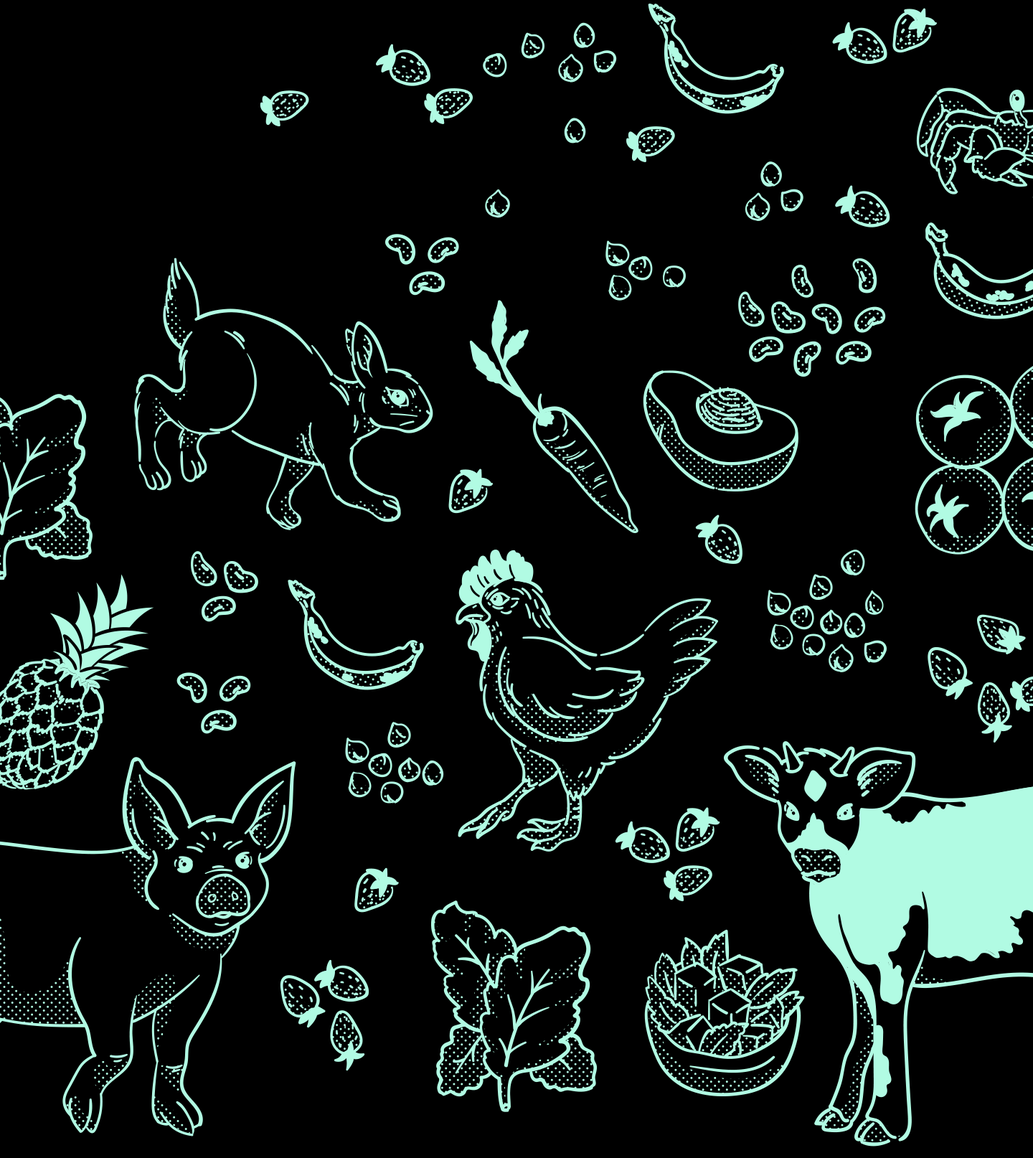
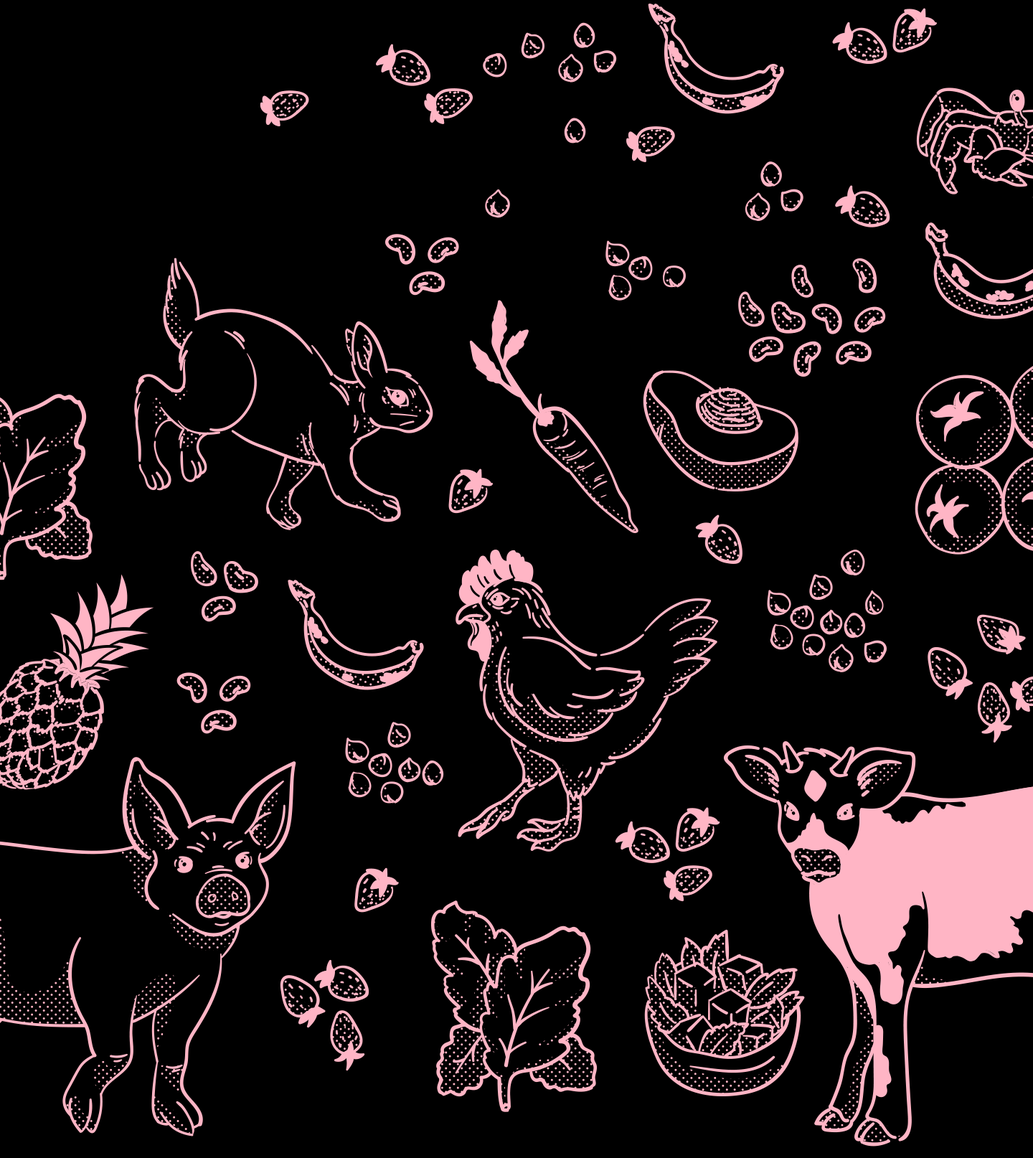
pink insted of purple

diff --git a/assets/css/styles.css b/assets/css/styles.css
@@ -1,1 +1,1 @@
-@font-face{font-family:'League Spartan Variable';src:url("../fonts/league-spartan/LeagueSpartan-VF.woff2") format("woff2-variations");font-weight:200 900}@font-face{font-family:'Fanwood';src:url("../fonts/fanwood_regular_macroman/Fanwood-webfont.eot");src:url("../fonts/fanwood_regular_macroman/Fanwood-webfont.eot?#iefix") format("embedded-opentype"),url("../fonts/fanwood_regular_macroman/Fanwood-webfont.woff") format("woff"),url("../fonts/fanwood_regular_macroman/Fanwood-webfont.ttf") format("truetype"),url("../fonts/fanwood_regular_macroman/Fanwood-webfont.svg#fanwoodregular") format("svg");font-weight:normal;font-style:normal}@font-face{font-family:'fanwooditalic';src:url("../fonts/fanwood_italic_macroman/Fanwood-Italic-webfont.eot");src:url("../fonts/fanwood_italic_macroman/Fanwood-Italic-webfont.eot?#iefix") format("embedded-opentype"),url("../fonts/fanwood_italic_macroman/Fanwood-Italic-webfont.woff") format("woff"),url("../fonts/fanwood_italic_macroman/Fanwood-Italic-webfont.ttf") format("truetype"),url("../fonts/fanwood_italic_macroman/Fanwood-Italic-webfont.svg#fanwooditalic") format("svg");font-weight:normal;font-style:italic}body{font-family:"Fanwood",serif;font-weight:400;color:#000;background-color:#FFFEFA;-webkit-font-smoothing:antialiased;-moz-osx-font-smoothing:grayscale}section{margin:0}a{text-decoration:none;color:#000}a:hover{color:#8441FD;text-decoration:none}.underline{text-decoration:underline}.no-underline{text-decoration:none}.no-underline:hover{text-decoration:none !important}.dark{color:#000}.bright{color:#FFFEFA}.dark-background{background-color:#000}.bright-background{background-color:#FFFEFA}.brand-background{background-color:#8441FD}.gray-1-background{background-color:#f7f7f7}.gray-2-background{background-color:#c6c6c6}.gray-3-background{background-color:#949494}.gray-4-background{background-color:#949494}.gray-5-background{background-color:#313131}figure{margin:0}figure img{width:100%}ul{padding:0;margin:0}ul li{list-style-type:none}.inline{display:inline-block}.inline li{display:inline-block}.break{display:block;content:''}.box-row{display:block;width:100%;height:5.1rem}h1,h2,h3,h4,h5,h6{color:#000;font-family:"League Spartan Variable",sans-serif;font-weight:700}h1,h2,h3,h4,h5,h6{margin:0}h1{font-size:2.488125rem;line-height:2.9375rem}h2{font-size:2.07375rem;line-height:2.4375rem}h3{font-size:1.728125rem;line-height:2.0625rem}h4{font-size:1.44rem;line-height:1.6875rem}h5{font-size:1.2rem;line-height:1.69155rem}p{font-size:1.266rem;line-height:2.0256rem;margin:0;font-weight:400}.p-big{font-size:1.424rem;line-height:2.2784rem;font-weight:400}.p-small{font-size:1.125rem;line-height:1.8rem}.category{text-transform:uppercase;font-size:1rem;letter-spacing:0.2rem}.author-date{font-size:1.125rem;color:#636363}blockquote{font-style:normal !important;color:#000 !important;margin:0}blockquote p{font-size:1.424rem;line-height:2.2784rem;color:#636363}.button{font-family:"League Spartan Variable",sans-serif;color:#FFFEFA;font-weight:700;display:inline-block;padding:.5rem 2.5rem;border-radius:50px;margin:0;text-align:center}.button:hover{background-color:#B2FCE4;color:#000;-webkit-transition:0.7s ease;transition:0.7s ease}.button-wide,.button-wide-xs{display:block}.button-big,.link-big{font-size:1.424rem}.link-big span{font-size:2rem}.link-mid{font-size:1.266rem}.link-mid span{font-size:2rem}.button-small,.link-small{font-size:1.125rem}.button-ghost{border:2px solid #000}.button-ghost-bright{border:2px solid #FFFEFA}.button-box{padding:1rem;margin-bottom:2.4rem}.button-box a:last-child{margin-bottom:0}.button-bright:hover{color:#FFFEFA}.button-dark:hover{color:#000}.link{font-family:"League Spartan Variable",sans-serif;font-weight:700}.link:hover{text-decoration:underline;color:#8441FD;-webkit-transition:0.7s ease;transition:0.7s ease}.link span{vertical-align:middle;margin-left:.5rem}.link-heading:hover{color:#8441FD;transition:0.7s ease;-webkit-transition:0.7s ease}.underline-links li a:after{content:"";display:block;background-color:rgba(0,0,0,0);width:33%;height:.2rem;position:relative;top:.65rem;margin:0 auto}.underline-links li a:hover{color:#000}.underline-links li a:hover:after{background-color:#B2FCE4}.underline-links .active:after{background-color:#000}.underline-links .social a:hover:after{background-color:rgba(0,0,0,0)}.underline-links .social a:after{top:.45rem}.icon-gallery .row{margin:0 0 2.4rem 0}.icon-box{margin:0 0 2.4rem 0}.icon-box img{width:inherit;vertical-align:middle}.video-wrapper{position:relative;padding-bottom:56.25%;padding-top:0;height:0;margin:3rem 0 0 0}.video-wrapper iframe,.video-wrapper .video{position:absolute;top:0;left:0;width:100%;height:100%}.caption{display:block;margin:.75rem 0 2rem 0;color:#000;font-size:1rem;line-height:1.6rem}.caption:hover{text-decoration:underline;color:#000}.main-nav{background-color:#B2FCE4;padding:.5rem 0 .25rem 0}.main-nav a:hover{color:#000}.main-nav li{margin-right:1rem;font-size:1.5rem}.main-nav li:last-child{margin-right:0}.uk-alert{color:inherit;padding:2.4rem 1.4rem;margin:0 0 1.4rem 0;background-color:#f7f7f7}.uk-alert-close{top:1.4rem;right:1.4rem;opacity:1}.uk-alert-close:hover{opacity:1}.alert-content{margin:0 0 .5rem 0}.alert-content p:last-child{margin-bottom:0}.alert-content-no-heading{margin:1.4rem 0 .5rem 0}.uk-modal-full{z-index:9999999999}.uk-modal-full .uk-modal-dialog{height:100%;color:#FFFEFA;background-color:#000}.uk-modal-full .uk-modal-body{padding:.75rem 0 2.4rem 0}.uk-modal-full .wrapper{height:100%}.uk-modal-full .modal-nav-row{height:100%}.uk-modal-full ul{padding-left:0}.uk-modal-full .social{margin-top:1rem;font-size:1.5rem}.uk-modal-full .social li{margin-right:1rem}.uk-modal-full .social li:last-child{margin-right:0}.uk-modal-full li{font-family:"League Spartan Variable",sans-serif;font-weight:700;font-size:1.44rem;margin-bottom:1rem}.uk-modal-full .logo{font-size:8rem;margin-bottom:-1rem}.uk-modal-full a{color:#FFFEFA}.uk-modal-full a:hover{color:#B2FCE4}.uk-modal-full .uk-modal-close-default{position:inherit;padding:0}.uk-modal-full .uk-modal-close-default span{font-size:1.5rem}.uk-modal-full .uk-modal-close-default svg{display:none}.modal-open{display:block;opacity:1}.why-big-text{margin:0 0 2.5rem 0;padding:0 0 2rem 0;border-bottom:1px dotted #c6c6c6}.index-header{margin:0 auto 3.5rem auto}.index-header .hero-image{background-image:url(../images/hero-image-mobile-1-1.png);background-repeat:no-repeat;background-size:cover;height:24rem;background-color:#000;margin-bottom:1rem}.index-header h1{margin-bottom:1rem}.index-header .p-big{font-size:1.424rem;line-height:2.2784rem}.index-header .text-box{margin:0 0 2rem 0}.content .row{padding:0 0 2rem 0;margin:0 0 2.5rem 0;border-bottom:1px dotted #c6c6c6}.content figure{margin:0 0 1.5rem 0}.content h3{margin:0 0 1rem 0}.content h4,.content h5{margin:0 0 1rem 0}.content .text-box{margin:0 0 1.5rem 0}.content .preview-lessons{padding:0 0 2.5rem 0}.content .preview-events-and-articles{border-bottom:0;margin-bottom:0}.content .preview-event{padding:0 0 2rem 0;border-bottom:1px dotted #c6c6c6}.content .preview-event-article{margin:0 0 2rem 0}.content .preview-event-article h4{font-size:1.728125rem;line-height:2.0625rem}.content .preview-event-article figure{margin:0 0 1rem 0}.content .preview-event-article .text-box{margin:0 0 .75rem 0}.content-post{padding:0;margin:2.5rem 0 4.5rem 0}.content-post .row{padding:0 !important;margin:0 !important;border-bottom:none}.content-post .article-container{margin:2rem 0 1rem 0 !important}.content-post .article-container .button{margin:.5rem 0 0 0}.content-post .article-container p{margin:0 0 2rem 0}.content-post .article-container img{margin:2rem 0 0 0}.prev-next .long-word{display:none}.prev-next .col-xs-6{padding:0}.prev-next a .margin-right{margin-left:0;margin-right:.5rem}.prev-next a:hover{text-decoration:none}footer{color:#FFFEFA;background-color:#000;padding:2rem 0}footer .logo{font-size:7.5rem;color:#FFFEFA}footer .logo:hover{color:#B2FCE4;transition:0.7s ease;-webkit-transition:0.7s ease}footer nav{margin:0 0 2rem 0}footer nav li{margin:0 0 .5rem 0}footer nav a{font-family:"League Spartan Variable",sans-serif;font-weight:700;font-size:1.266rem;color:#FFFEFA}footer nav a:hover{color:#B2FCE4;text-decoration:underline;transition:0.7s ease;-webkit-transition:0.7s ease}footer p{margin:0 0 1rem 0}footer .link{color:#FFFEFA}footer .link:hover{color:#B2FCE4;transition:0.7s ease;-webkit-transition:0.7s ease}footer .social li{margin-right:1rem}footer .social li:last-child{margin-right:0}footer .social li a{font-size:1.25rem}footer .social li a:hover{text-decoration:none}#Smallchat .Laucher-icon{box-shadow:0 0 0 0 rgba(0,0,0,0) !important}
+@font-face{font-family:'League Spartan Variable';src:url("../fonts/league-spartan/LeagueSpartan-VF.woff2") format("woff2-variations");font-weight:200 900}@font-face{font-family:'Fanwood';src:url("../fonts/fanwood_regular_macroman/Fanwood-webfont.eot");src:url("../fonts/fanwood_regular_macroman/Fanwood-webfont.eot?#iefix") format("embedded-opentype"),url("../fonts/fanwood_regular_macroman/Fanwood-webfont.woff") format("woff"),url("../fonts/fanwood_regular_macroman/Fanwood-webfont.ttf") format("truetype"),url("../fonts/fanwood_regular_macroman/Fanwood-webfont.svg#fanwoodregular") format("svg");font-weight:normal;font-style:normal}@font-face{font-family:'fanwooditalic';src:url("../fonts/fanwood_italic_macroman/Fanwood-Italic-webfont.eot");src:url("../fonts/fanwood_italic_macroman/Fanwood-Italic-webfont.eot?#iefix") format("embedded-opentype"),url("../fonts/fanwood_italic_macroman/Fanwood-Italic-webfont.woff") format("woff"),url("../fonts/fanwood_italic_macroman/Fanwood-Italic-webfont.ttf") format("truetype"),url("../fonts/fanwood_italic_macroman/Fanwood-Italic-webfont.svg#fanwooditalic") format("svg");font-weight:normal;font-style:italic}body{font-family:"Fanwood",serif;font-weight:400;color:#000;background-color:#FFFEFA;-webkit-font-smoothing:antialiased;-moz-osx-font-smoothing:grayscale}section{margin:0}a{text-decoration:none;color:#000}a:hover{color:#FFB6C6;text-decoration:none}.underline{text-decoration:underline}.no-underline{text-decoration:none}.no-underline:hover{text-decoration:none !important}.dark{color:#000}.bright{color:#FFFEFA}.dark-background{background-color:#000}.bright-background{background-color:#FFFEFA}.brand-background{background-color:#FFB6C6}.gray-1-background{background-color:#f7f7f7}.gray-2-background{background-color:#c6c6c6}.gray-3-background{background-color:#949494}.gray-4-background{background-color:#949494}.gray-5-background{background-color:#313131}figure{margin:0}figure img{width:100%}ul{padding:0;margin:0}ul li{list-style-type:none}.inline{display:inline-block}.inline li{display:inline-block}.break{display:block;content:''}.box-row{display:block;width:100%;height:5.1rem}h1,h2,h3,h4,h5,h6{color:#000;font-family:"League Spartan Variable",sans-serif;font-weight:700}h1,h2,h3,h4,h5,h6{margin:0}h1{font-size:2.488125rem;line-height:2.9375rem}h2{font-size:2.07375rem;line-height:2.4375rem}h3{font-size:1.728125rem;line-height:2.0625rem}h4{font-size:1.44rem;line-height:1.6875rem}h5{font-size:1.2rem;line-height:1.69155rem}p{font-size:1.266rem;line-height:2.0256rem;margin:0;font-weight:400}.p-big{font-size:1.424rem;line-height:2.2784rem;font-weight:400}.p-small{font-size:1.125rem;line-height:1.8rem}.category{text-transform:uppercase;font-size:1rem;letter-spacing:0.2rem}.author-date{font-size:1.125rem;color:#636363}blockquote{font-style:normal !important;color:#000 !important;margin:0}blockquote p{font-size:1.424rem;line-height:2.2784rem;color:#636363}.button{font-family:"League Spartan Variable",sans-serif;color:#000;font-weight:700;display:inline-block;padding:.5rem 2.5rem;margin:0;text-align:center}.button:hover{background-color:#B2FCE4;color:#000;-webkit-transition:0.7s ease;transition:0.7s ease}.button-wide,.button-wide-xs{display:block}.button-big,.link-big{font-size:1.424rem}.link-big span{font-size:2rem}.link-mid{font-size:1.266rem}.link-mid span{font-size:2rem}.button-small,.link-small{font-size:1.125rem}.button-ghost{border:2px solid #000}.button-ghost-bright{border:2px solid #FFFEFA}.button-box{padding:1rem;margin-bottom:2.4rem}.button-box a:last-child{margin-bottom:0}.button-bright:hover{color:#FFFEFA}.button-dark:hover{color:#000}.link{font-family:"League Spartan Variable",sans-serif;font-weight:700}.link:hover{text-decoration:underline;color:#FFB6C6;-webkit-transition:0.7s ease;transition:0.7s ease}.link span{vertical-align:middle;margin-left:.5rem}.link-heading:hover{color:#FFB6C6;transition:0.7s ease;-webkit-transition:0.7s ease}.underline-links li a:after{content:"";display:block;background-color:rgba(0,0,0,0);width:33%;height:.2rem;position:relative;top:.65rem;margin:0 auto}.underline-links li a:hover{color:#000}.underline-links li a:hover:after{background-color:#B2FCE4}.underline-links .active:after{background-color:#000}.underline-links .social a:hover:after{background-color:rgba(0,0,0,0)}.underline-links .social a:after{top:.45rem}.icon-gallery .row{margin:0 0 2.4rem 0}.icon-box{margin:0 0 2.4rem 0}.icon-box img{width:inherit;vertical-align:middle}.video-wrapper{position:relative;padding-bottom:56.25%;padding-top:0;height:0;margin:3rem 0 0 0}.video-wrapper iframe,.video-wrapper .video{position:absolute;top:0;left:0;width:100%;height:100%}.caption{display:block;margin:.75rem 0 2rem 0;color:#000;font-size:1rem;line-height:1.6rem}.caption:hover{text-decoration:underline;color:#000}.main-nav{background-color:#B2FCE4;padding:.5rem 0 .25rem 0}.main-nav a:hover{color:#000}.main-nav li{margin-right:1rem;font-size:1.5rem}.main-nav li:last-child{margin-right:0}.uk-alert{color:inherit;padding:2.4rem 1.4rem;margin:0 0 1.4rem 0;background-color:#f7f7f7}.uk-alert-close{top:1.4rem;right:1.4rem;opacity:1}.uk-alert-close:hover{opacity:1}.alert-content{margin:0 0 .5rem 0}.alert-content p:last-child{margin-bottom:0}.alert-content-no-heading{margin:1.4rem 0 .5rem 0}.uk-modal-full{z-index:9999999999}.uk-modal-full .uk-modal-dialog{height:100%;color:#FFFEFA;background-color:#000}.uk-modal-full .uk-modal-body{padding:.75rem 0 2.4rem 0}.uk-modal-full .wrapper{height:100%}.uk-modal-full .modal-nav-row{height:100%}.uk-modal-full ul{padding-left:0}.uk-modal-full .social{margin-top:1rem;font-size:1.5rem}.uk-modal-full .social li{margin-right:1rem}.uk-modal-full .social li:last-child{margin-right:0}.uk-modal-full li{font-family:"League Spartan Variable",sans-serif;font-weight:700;font-size:1.44rem;margin-bottom:1rem}.uk-modal-full .logo{font-size:8rem;margin-bottom:-1rem}.uk-modal-full a{color:#FFFEFA}.uk-modal-full a:hover{color:#B2FCE4}.uk-modal-full .uk-modal-close-default{position:inherit;padding:0}.uk-modal-full .uk-modal-close-default span{font-size:1.5rem}.uk-modal-full .uk-modal-close-default svg{display:none}.modal-open{display:block;opacity:1}.why-big-text{margin:0 0 2.5rem 0;padding:0 0 2rem 0;border-bottom:1px dotted #c6c6c6}.index-header{margin:0 auto 3.5rem auto}.index-header .hero-image{background-image:url(../images/hero-image-mobile-1-1.png);background-repeat:no-repeat;background-size:cover;height:24rem;background-color:#000;margin-bottom:1rem}.index-header h1{margin-bottom:1rem}.index-header .p-big{font-size:1.424rem;line-height:2.2784rem}.index-header .text-box{margin:0 0 2rem 0}.content .row{padding:0 0 2rem 0;margin:0 0 2.5rem 0;border-bottom:1px dotted #c6c6c6}.content figure{margin:0 0 1.5rem 0}.content h3{margin:0 0 1rem 0}.content h4,.content h5{margin:0 0 1rem 0}.content .text-box{margin:0 0 1.5rem 0}.content .preview-lessons{padding:0 0 2.5rem 0}.content .preview-events-and-articles{border-bottom:0;margin-bottom:0}.content .preview-event{padding:0 0 2rem 0;border-bottom:1px dotted #c6c6c6}.content .preview-event-article{margin:0 0 2rem 0}.content .preview-event-article h4{font-size:1.728125rem;line-height:2.0625rem}.content .preview-event-article figure{margin:0 0 1rem 0}.content .preview-event-article .text-box{margin:0 0 .75rem 0}.content-post{padding:0;margin:2.5rem 0 4.5rem 0}.content-post .row{padding:0 !important;margin:0 !important;border-bottom:none}.content-post .article-container{margin:2rem 0 1rem 0 !important}.content-post .article-container .button{margin:.5rem 0 0 0}.content-post .article-container p{margin:0 0 2rem 0}.content-post .article-container img{margin:2rem 0 0 0}.prev-next .long-word{display:none}.prev-next .col-xs-6{padding:0}.prev-next a .margin-right{margin-left:0;margin-right:.5rem}.prev-next a:hover{text-decoration:none}footer{color:#FFFEFA;background-color:#000;padding:2rem 0}footer .logo{font-size:7.5rem;color:#FFFEFA}footer .logo:hover{color:#B2FCE4;transition:0.7s ease;-webkit-transition:0.7s ease}footer nav{margin:0 0 2rem 0}footer nav li{margin:0 0 .5rem 0}footer nav a{font-family:"League Spartan Variable",sans-serif;font-weight:700;font-size:1.266rem;color:#FFFEFA}footer nav a:hover{color:#B2FCE4;text-decoration:underline;transition:0.7s ease;-webkit-transition:0.7s ease}footer p{margin:0 0 1rem 0}footer .link{color:#FFFEFA}footer .link:hover{color:#B2FCE4;transition:0.7s ease;-webkit-transition:0.7s ease}footer .social li{margin-right:1rem}footer .social li:last-child{margin-right:0}footer .social li a{font-size:1.25rem}footer .social li a:hover{text-decoration:none}#Smallchat .Laucher-icon{box-shadow:0 0 0 0 rgba(0,0,0,0) !important}

diff --git a/assets/css/media-queries.css b/assets/css/media-queries.css
@@ -1,1 +1,1 @@
-@media only screen and (max-width: 48em){.visible-sm{display:block}.hidden-xs{display:none}}@media only screen and (min-width: 48em){.visible-sm{display:block}.hidden-sm{display:none}h1{font-size:2.98625rem;line-height:3.5625rem}h2{font-size:2.488125rem;line-height:2.9375rem}h3{font-size:2.07375rem;line-height:2.4375rem}h4{font-size:1.728125rem;line-height:2.0625rem}h5{font-size:1.44rem;line-height:1.6875rem}.button-big,.link-big{font-size:1.424rem}.button .visible-sm{display:inline-block}.prev-next .long-word{font-size:inherit;display:inline;margin:0}.main-nav{padding:1rem 0 .5rem 0}.main-nav li a{font-size:1.424rem}.uk-modal-full .uk-modal-body{padding:1rem 0 2.4rem 0}.button-wide-xs{display:inline-block}.index-header,.internal-header{padding:0 0 1rem 0;background-color:#000;background-image:url(../images/hero-image-home-tablet.png);background-position:right;background-repeat:no-repeat;background-size:50%}.index-header h1,.index-header p,.internal-header h1,.internal-header p{color:#FFFEFA}.index-header .content-box,.internal-header .content-box{margin:6rem 0 2.5rem 0;padding:0 2rem 0 0}.index-header .text-box,.internal-header .text-box{margin:0 0 2.5rem 0}.down{color:#FFFEFA;font-size:2rem;-webkit-transition:0.4s ease;transition:0.4s ease}.down:hover{color:#B2FCE4}.internal-header{background-color:rgba(0,0,0,0);background-image:none;color:#000}.internal-header .main-nav .logo{color:#000}.internal-header .main-nav .logo:hover{color:#8441FD}.internal-header .main-nav ul{background-color:rgba(0,0,0,0)}.internal-header .main-nav ul .active:after{background-color:#000}.internal-header .main-nav ul a,.internal-header .main-nav ul .active{color:#000}.internal-header .main-nav ul a:hover,.internal-header .main-nav ul .active:hover{color:#000}.internal-header .main-nav ul a:hover:after,.internal-header .main-nav ul .active:hover:after{background-color:#8441FD}.internal-header .main-nav .social a:hover{color:#8441FD}.internal-header .main-nav .social a:hover:after{background-color:rgba(0,0,0,0)}.content .row{padding:0 0 4rem 0;margin:0 0 4.5rem 0}.content .text-box{margin:0 0 2rem 0}.content .preview-events-and-articles{margin:0}.content .preview-event-article h4{font-size:1.728125rem;line-height:2.0625rem}.content .preview-event{padding:0;border-bottom:none}.content-post{margin:2rem 0 6.5rem 0}.shrink-nav .social a:hover:after{background-color:rgba(0,0,0,0) !important}.shrink-nav a:hover:after,.shrink-nav .active:hover:after{background-color:#000 !important}}@media only screen and (min-width: 62em){.visible-lg{display:block}.hidden-lg{display:none}.main-nav{background-color:rgba(0,0,0,0);box-shadow:none;-webkit-box-shadow:none;-moz-box-shadow:none}.main-nav .nav-right{padding:0 1rem}.main-nav .logo{font-size:8.5rem;color:#FFFEFA}.main-nav .logo:hover{color:#B2FCE4}.main-nav ul{background-color:#000}.main-nav ul li{margin-right:1.2rem}.main-nav ul li a{font-family:"League Spartan Variable",sans-serif;font-weight:700;font-size:1.266rem;color:#FFFEFA}.main-nav ul li a:hover{color:#B2FCE4}.main-nav .social{display:inline-block}.main-nav .social li{margin-right:1rem}.main-nav .social li:last-child{margin-right:0}.main-nav .social li a{font-size:1.266rem}.shrink-nav{background-color:#B2FCE4}.shrink-nav ul{margin-top:-.5rem;background-color:rgba(0,0,0,0)}.shrink-nav li{margin-right:1rem !important}.shrink-nav li .active:after{background-color:#000 !important}.shrink-nav li a,.shrink-nav li .active{color:#000 !important;font-size:1.125rem !important}.shrink-nav li a:hover,.shrink-nav li .active:hover{color:#000 !important}.shrink-nav li a:hover:after,.shrink-nav li .active:hover:after{background-color:#000}.shrink-nav .social{position:relative;top:.2rem}.shrink-nav .social li{margin-right:.75rem !important}.shrink-nav .social a:hover{color:#FFFEFA !important}.shrink-nav .social a:hover:after{background-color:rgba(0,0,0,0)}.shrink-nav .logo{font-size:1.5rem;color:#000}.shrink-nav .logo:hover{color:#FFFEFA !important}.shrink-nav .logo span:before{content:"\e94b"}.index-header{background-image:url(../images/hero-image-home-variant.png)}.internal-header{background-image:none}.why-big-text{margin:0 0 4rem 0 !important;padding:0 0 4rem 0 !important}.content-post{margin:-1.5rem 0 6.5rem 0}footer nav{margin:0 0 .5rem 0}footer nav li{margin-right:1rem;display:inline-block}footer nav li:last-child{margin-right:0}.text-box{margin:0 0 .5rem 0}.text-box p{display:inline-block}}@media only screen and (min-width: 75em){.index-header{margin:0 auto 6rem auto;padding:0;height:100vh}.index-header .content-box{margin:2rem 0 0 0;padding:0 2rem 0 0}.index-header .text-box{margin:0 0 2.5rem 0}.content-box-wrapper{height:100vh}.sixty-six-height{height:66vh}.down-box{position:absolute !important;bottom:1rem;left:50%;margin-left:-1.5rem;text-align:center;z-index:1}.internal-header{height:inherit}}
+@media only screen and (max-width: 48em){.visible-sm{display:block}.hidden-xs{display:none}}@media only screen and (min-width: 48em){.visible-sm{display:block}.hidden-sm{display:none}h1{font-size:2.98625rem;line-height:3.5625rem}h2{font-size:2.488125rem;line-height:2.9375rem}h3{font-size:2.07375rem;line-height:2.4375rem}h4{font-size:1.728125rem;line-height:2.0625rem}h5{font-size:1.44rem;line-height:1.6875rem}.button-big,.link-big{font-size:1.424rem}.button .visible-sm{display:inline-block}.prev-next .long-word{font-size:inherit;display:inline;margin:0}.main-nav{padding:1rem 0 .5rem 0}.main-nav li a{font-size:1.424rem}.uk-modal-full .uk-modal-body{padding:1rem 0 2.4rem 0}.button-wide-xs{display:inline-block}.index-header,.internal-header{padding:0 0 1rem 0;background-color:#000;background-image:url(../images/hero-image-home-tablet.png);background-position:right;background-repeat:no-repeat;background-size:50%}.index-header h1,.index-header p,.internal-header h1,.internal-header p{color:#FFFEFA}.index-header .content-box,.internal-header .content-box{margin:6rem 0 2.5rem 0;padding:0 2rem 0 0}.index-header .text-box,.internal-header .text-box{margin:0 0 2.5rem 0}.down{color:#FFFEFA;font-size:2rem;-webkit-transition:0.4s ease;transition:0.4s ease}.down:hover{color:#B2FCE4}.internal-header{background-color:rgba(0,0,0,0);background-image:none;color:#000}.internal-header .main-nav .logo{color:#000}.internal-header .main-nav .logo:hover{color:#FFB6C6}.internal-header .main-nav ul{background-color:rgba(0,0,0,0)}.internal-header .main-nav ul .active:after{background-color:#000}.internal-header .main-nav ul a,.internal-header .main-nav ul .active{color:#000}.internal-header .main-nav ul a:hover,.internal-header .main-nav ul .active:hover{color:#000}.internal-header .main-nav ul a:hover:after,.internal-header .main-nav ul .active:hover:after{background-color:#FFB6C6}.internal-header .main-nav .social a:hover{color:#FFB6C6}.internal-header .main-nav .social a:hover:after{background-color:rgba(0,0,0,0)}.content .row{padding:0 0 4rem 0;margin:0 0 4.5rem 0}.content .text-box{margin:0 0 2rem 0}.content .preview-events-and-articles{margin:0}.content .preview-event-article h4{font-size:1.728125rem;line-height:2.0625rem}.content .preview-event{padding:0;border-bottom:none}.content-post{margin:2rem 0 6.5rem 0}.shrink-nav .social a:hover:after{background-color:rgba(0,0,0,0) !important}.shrink-nav a:hover:after,.shrink-nav .active:hover:after{background-color:#000 !important}}@media only screen and (min-width: 62em){.visible-lg{display:block}.hidden-lg{display:none}.main-nav{background-color:rgba(0,0,0,0);box-shadow:none;-webkit-box-shadow:none;-moz-box-shadow:none}.main-nav .nav-right{padding:0 1rem}.main-nav .logo{font-size:8.5rem;color:#FFFEFA}.main-nav .logo:hover{color:#B2FCE4}.main-nav ul{background-color:#000}.main-nav ul li{margin-right:1.2rem}.main-nav ul li a{font-family:"League Spartan Variable",sans-serif;font-weight:700;font-size:1.266rem;color:#FFFEFA}.main-nav ul li a:hover{color:#B2FCE4}.main-nav .social{display:inline-block}.main-nav .social li{margin-right:1rem}.main-nav .social li:last-child{margin-right:0}.main-nav .social li a{font-size:1.266rem}.shrink-nav{background-color:#B2FCE4}.shrink-nav ul{margin-top:-.5rem;background-color:rgba(0,0,0,0)}.shrink-nav li{margin-right:1rem !important}.shrink-nav li .active:after{background-color:#000 !important}.shrink-nav li a,.shrink-nav li .active{color:#000 !important;font-size:1.125rem !important}.shrink-nav li a:hover,.shrink-nav li .active:hover{color:#000 !important}.shrink-nav li a:hover:after,.shrink-nav li .active:hover:after{background-color:#000}.shrink-nav .social{position:relative;top:.2rem}.shrink-nav .social li{margin-right:.75rem !important}.shrink-nav .social a:hover:after{background-color:rgba(0,0,0,0)}.shrink-nav .logo{font-size:1.5rem;color:#000}.shrink-nav .logo:hover{color:#000 !important}.shrink-nav .logo span:before{content:"\e94b"}.index-header{background-image:url(../images/hero-image-home-variant.png)}.internal-header{background-image:none}.why-big-text{margin:0 0 4rem 0 !important;padding:0 0 4rem 0 !important}.content-post{margin:-1.5rem 0 6.5rem 0}footer nav{margin:0 0 .5rem 0}footer nav li{margin-right:1rem;display:inline-block}footer nav li:last-child{margin-right:0}.text-box{margin:0 0 .5rem 0}.text-box p{display:inline-block}}@media only screen and (min-width: 75em){.index-header{margin:0 auto 6rem auto;padding:0;height:100vh}.index-header .content-box{margin:2rem 0 0 0;padding:0 2rem 0 0}.index-header .text-box{margin:0 0 2.5rem 0}.content-box-wrapper{height:100vh}.sixty-six-height{height:66vh}.down-box{position:absolute !important;bottom:1rem;left:50%;margin-left:-1.5rem;text-align:center;z-index:1}.internal-header{height:inherit}}

diff --git a/assets/scss/media-queries.scss b/assets/scss/media-queries.scss
@@ -9,9 +9,8 @@
 // Variables
 
 // Color variables
-$brand: #8441FD;
+$brand: #FFB6C6;
 $brand-2: #B2FCE4;
-$brand-3: #FF5252;
 $dark: #000;
 $bright: #FFFEFA;
 
@@ -336,7 +335,7 @@ $micro-line-height: 1.6rem;
       }
       & a{
         &:hover{
-          color: $bright !important;
+          // color: $bright !important;
           &:after{
             background-color: $transparent;
           }
@@ -347,7 +346,7 @@ $micro-line-height: 1.6rem;
       font-size: 1.5rem;
       color: $dark;
       &:hover{
-        color: $bright !important;
+        color: $dark !important;
       }
       & span{
         &:before{

diff --git a/assets/scss/styles.scss b/assets/scss/styles.scss
@@ -9,9 +9,8 @@
 // Variables
 
 // Color variables
-$brand: #8441FD;
+$brand: #FFB6C6;
 $brand-2: #B2FCE4;
-$brand-3: #FF5252;
 $dark: #000;
 $bright: #FFFEFA;
 
@@ -284,11 +283,11 @@ blockquote{
 
 .button{
   font-family: $sans-serif;
-  color: $bright;
+  color: $dark;
   font-weight: $bold;
   display: inline-block;
   padding: .5rem 2.5rem;
-  border-radius: 50px;
+  // border-radius: 50px;
   margin: 0;
   text-align: center;
   &:hover{
